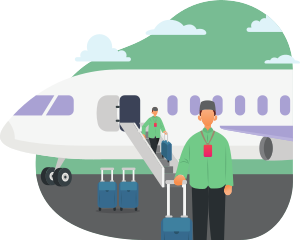
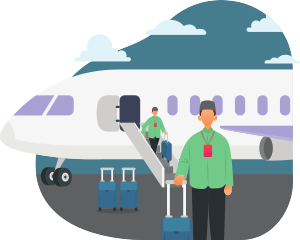
change style

diff --git a/lib/widgets/components/bottom_nav_bar.dart b/lib/widgets/components/bottom_nav_bar.dart
@@ -1,5 +1,6 @@
 import 'package:flutter/material.dart';
 import 'package:salomon_bottom_bar/salomon_bottom_bar.dart';
+import 'package:hajj_app/helpers/colors.dart';
 
 class BottomNavBar extends StatefulWidget {
   final int currentIndex;
@@ -33,29 +34,29 @@ class _BottomNavBarState extends State<BottomNavBar> {
       bottomNavigationBar: SalomonBottomBar(
         currentIndex: widget.currentIndex,
         selectedItemColor: Colors.white,
-        unselectedItemColor: Colors.green,
-        margin: const EdgeInsets.only(bottom: 30, top: 10, right: 20, left: 20),
+        unselectedItemColor: ColorSys.darkBlue,
+        margin: const EdgeInsets.only(bottom: 20, top: 20, right: 20, left: 20),
         onTap: widget.onTap,
         items: [
           SalomonBottomBarItem(
             icon: const Icon(Icons.home),
             title: const Text("Home"),
-            selectedColor: Colors.green,
+            selectedColor: ColorSys.darkBlue,
           ),
           SalomonBottomBarItem(
             icon: const Icon(Icons.explore_outlined),
             title: const Text("Find Me"),
-            selectedColor: Colors.green,
+            selectedColor: ColorSys.darkBlue,
           ),
           SalomonBottomBarItem(
             icon: const Icon(Icons.data_usage),
             title: const Text("Search"),
-            selectedColor: Colors.green,
+            selectedColor: ColorSys.darkBlue,
           ),
           SalomonBottomBarItem(
             icon: const Icon(Icons.settings),
             title: const Text("Profile"),
-            selectedColor: Colors.green,
+            selectedColor: ColorSys.darkBlue,
           ),
         ],
       ),

diff --git a/lib/widgets/components/top_nav_bar.dart b/lib/widgets/components/top_nav_bar.dart
@@ -15,14 +15,14 @@ class TopNavBar extends StatelessWidget implements PreferredSizeWidget {
         IconButton(
           icon: const Icon(
             Icons.notifications,
-            color: Colors.green,
+            color: Color.fromRGBO(69, 125, 143, 1),
           ),
           onPressed: () {},
         ),
         IconButton(
           icon: const Icon(
             Icons.more_vert,
-            color: Colors.green,
+            color: Color.fromRGBO(69, 125, 143, 1),
           ),
           onPressed: () {},
         ),
@@ -30,7 +30,7 @@ class TopNavBar extends StatelessWidget implements PreferredSizeWidget {
       leading: IconButton(
         icon: const Icon(
           Icons.menu,
-          color: Colors.green,
+          color: Color.fromRGBO(69, 125, 143, 1),
         ),
         onPressed: () {},
       ),

diff --git a/lib/helpers/colors.dart b/lib/helpers/colors.dart
@@ -1,12 +1,9 @@
 import 'package:flutter/material.dart';
 
 class ColorSys {
-  static Color primary = const Color.fromRGBO(52, 43, 37, 1);
+  static Color primary = const Color.fromRGBO(30, 55, 70, 1.0);
   static Color grey = const Color.fromRGBO(158, 158, 158, 1);
-  static Color green = const Color.fromRGBO(49, 153, 90, 1);
-  static Color greenSecondary = const Color.fromRGBO(49, 153, 90, 65);
-  static Color avocado = const Color.fromRGBO(77, 117, 10, 1);
   static Color secoundry = const Color.fromRGBO(198, 116, 27, 1);
-  static Color skyblue = const Color.fromRGBO(128, 213, 227, 1);
   static Color lightSecondary = const Color.fromRGBO(226, 185, 141, 1);
+  static Color darkBlue = const Color.fromRGBO(69, 125, 143, 1);
 }

diff --git a/lib/screens/profile.dart b/lib/screens/profile.dart
@@ -1,6 +1,6 @@
 import 'package:flutter/material.dart';
 import 'package:hajj_app/widgets/components/bottom_nav_bar.dart';
-import 'package:hajj_app/widgets/components/top_nav_bar.dart';
+// import 'package:hajj_app/widgets/components/top_nav_bar.dart';
 
 class ProfileScreen extends StatefulWidget {
   const ProfileScreen({Key? key}) : super(key: key);
@@ -16,7 +16,7 @@ class _ProfileScreenState extends State<ProfileScreen> {
   @override
   Widget build(BuildContext context) {
     return Scaffold(
-      appBar: const TopNavBar(),
+      // appBar: const TopNavBar(),
       body: BottomNavBar(
         currentIndex: _currentIndex,
         onTap: (index) {

diff --git a/lib/screens/find_me.dart b/lib/screens/find_me.dart
@@ -1,6 +1,6 @@
 import 'package:flutter/material.dart';
 import 'package:hajj_app/widgets/components/bottom_nav_bar.dart';
-import 'package:hajj_app/widgets/components/top_nav_bar.dart';
+// import 'package:hajj_app/widgets/components/top_nav_bar.dart';
 
 class FindMeScreen extends StatefulWidget {
   const FindMeScreen({Key? key}) : super(key: key);
@@ -16,7 +16,7 @@ class _FindMeScreenState extends State<FindMeScreen> {
   @override
   Widget build(BuildContext context) {
     return Scaffold(
-      appBar: const TopNavBar(),
+      // appBar: const TopNavBar(),
       body: BottomNavBar(
         currentIndex: _currentIndex,
         onTap: (index) {

diff --git a/lib/screens/search.dart b/lib/screens/search.dart
@@ -1,6 +1,6 @@
 import 'package:flutter/material.dart';
 import 'package:hajj_app/widgets/components/bottom_nav_bar.dart';
-import 'package:hajj_app/widgets/components/top_nav_bar.dart';
+// import 'package:hajj_app/widgets/components/top_nav_bar.dart';
 
 class SearchScreen extends StatefulWidget {
   const SearchScreen({Key? key}) : super(key: key);
@@ -16,7 +16,7 @@ class _SearchScreenState extends State<SearchScreen> {
   @override
   Widget build(BuildContext context) {
     return Scaffold(
-      appBar: const TopNavBar(),
+      // appBar: const TopNavBar(),
       body: BottomNavBar(
         currentIndex: _currentIndex,
         onTap: (index) {

diff --git a/lib/screens/home.dart b/lib/screens/home.dart
@@ -1,6 +1,6 @@
 import 'package:flutter/material.dart';
 import 'package:hajj_app/widgets/components/bottom_nav_bar.dart';
-import 'package:hajj_app/widgets/components/top_nav_bar.dart';
+// import 'package:hajj_app/widgets/components/top_nav_bar.dart';
 
 class HomeScreen extends StatefulWidget {
   const HomeScreen({Key? key}) : super(key: key);
@@ -16,7 +16,7 @@ class _HomeScreenState extends State<HomeScreen> {
   @override
   Widget build(BuildContext context) {
     return Scaffold(
-      appBar: const TopNavBar(),
+      // appBar: const TopNavBar(),
       body: BottomNavBar(
         currentIndex: _currentIndex,
         onTap: (index) {

diff --git a/lib/screens/introduction.dart b/lib/screens/introduction.dart
@@ -31,7 +31,7 @@ class _IntroductionState extends State<Introduction> {
   void navigateToHome() {
     Navigator.pushReplacement(
       context,
-      MaterialPageRoute(builder: (context) => HomeScreen()),
+      MaterialPageRoute(builder: (context) => const HomeScreen()),
     );
   }
 
@@ -106,7 +106,7 @@ class _IntroductionState extends State<Introduction> {
       width: isActive ? 30 : 6,
       margin: const EdgeInsets.only(right: 5),
       decoration: BoxDecoration(
-        color: ColorSys.greenSecondary,
+        color: ColorSys.darkBlue,
         borderRadius: BorderRadius.circular(5),
       ),
     );
